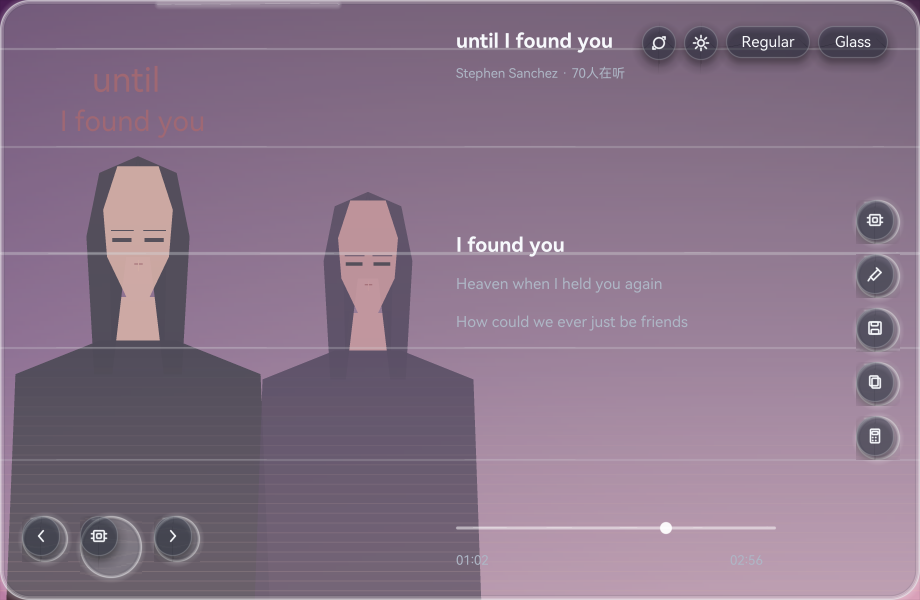
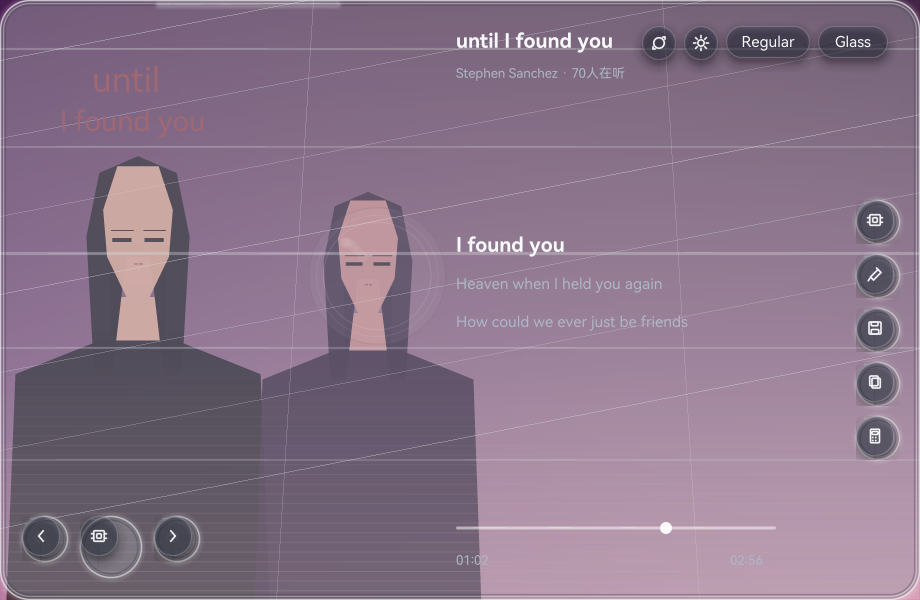
fix(liquid-glass): spherical lens geometry against reference frames / 按参考帧修正透镜光学几何
对照 `_helper/archive/AppleGlass.mp4` 三个窗口逐项修正光学机制。

W1 (00:51-00:58) 局部弯曲 / 多重轮廓 / 移动高光：
- 边缘层改为亮暗交替的多道等高线 + 内阴影，不再是等间距白色描边
- 新增沿球面弧扫过的镜面高光，位置随 motion 变化

W2 (00:59-01:03) 放大 / 压缩 / 倒置 / 反射环：
- 位移场改为球面 sag：`t / (1 - 0.86t)`，单调递增、边界外严格为 0
- 位移量改为正比于透镜半径；此前按屏幕短边再乘 0.11，最大偏移只有半径 1%，
  视觉上等于没有折射——这是"看起来仍是塑料"的直接原因

W3 (01:09-01:13) 色散 / 旋转高光 / 稳定主体：
- 色散严格由 motionEnergy 门控，settled 态为 0（对齐参考帧 73）
- 增加绿色边缘分量，对应参考中的绿斑

采样架构改正：只对透镜盘做有界回读，不再整表采样。全屏容器可见区
（2,208,000）本身超出 provider 预算（2,097,152），此前用水平分带绕过，但
band 会各自推导采样网格而留下可见接缝；参考中的光学元件本就是局部圆盘。

验证：
- 位移数学三项判据实测通过（单调递增、边界外 0、中心 0）
- A/B：透镜开/关差异集中在圆盘 bbox x=478..1027 y=276..1121
- 20/20 测试通过

证明类：source + build + test + visual。未主张 device / owner-acceptance / release。

diff --git a/manual/reference/liquid-glass-style.md b/manual/reference/liquid-glass-style.md
@@ -126,3 +126,27 @@ iOS、Metal、Vulkan、D3D、GLES 或 WebGPU backend 已完成的证明。
 [HIG Materials](https://developer.apple.com/design/human-interface-guidelines/materials)、
 [Applying Liquid Glass to custom views](https://developer.apple.com/documentation/SwiftUI/Applying-Liquid-Glass-to-custom-views)
 与 [Meet Liquid Glass](https://developer.apple.com/videos/play/wwdc2025/219/)。包内不含 Apple 资产。
+
+## 光学几何（对齐参考帧）
+
+实现对照 `_helper/archive/AppleGlass.mp4` 的三个窗口，机制如下：
+
+| 窗口 | 参考现象 | 实现机制 |
+|---|---|---|
+| `00:51-00:58` | 背景结构线在玻璃内局部弯曲；边缘多重轮廓与移动高光 | 透镜盘内径向位移场；边缘层亮/暗交替多道等高线；弧面高光随 motion 扫过 |
+| `00:59-01:03` | 圆形镜头穿过字标，文字被放大、压缩、倒置；内部有反射环 | 球面 sag 位移 `t / (1 - 0.86t)`，偏移量正比于透镜半径，可超过 1 倍半径产生压缩/倒置；盘内多层反射环 |
+| `01:09-01:13` | 图标边缘蓝红色散、局部旋转高光、主体稳定 | 色散严格由 `motionEnergy` 门控，settled 态为 0；蓝/红/绿三向边缘分离 |
+
+### 关键量纲约束
+
+位移强度按**透镜半径**归一化（`strength = displacement * lensRadius * 0.62`），
+不是按屏幕短边。早期实现按屏幕边长计算并额外乘 `0.11`，导致最大偏移只有半径的 1%，
+视觉上等于没有折射——这是"看起来仍是塑料"的直接原因。
+
+### 采样范围
+
+只对**透镜盘**做有界回读，不对整个表面采样。全屏容器的可见区域本身超出
+provider 像素预算（2,208,000 > 2,097,152），分带采样会让相邻 band 推导出不同的
+采样网格而产生可见接缝；而参考中的光学元件本身就是局部圆盘，所以只采圆盘既正确又省预算。
+
+参考帧 `73`（settled）无任何彩色边缘，因此色散不得常驻。
